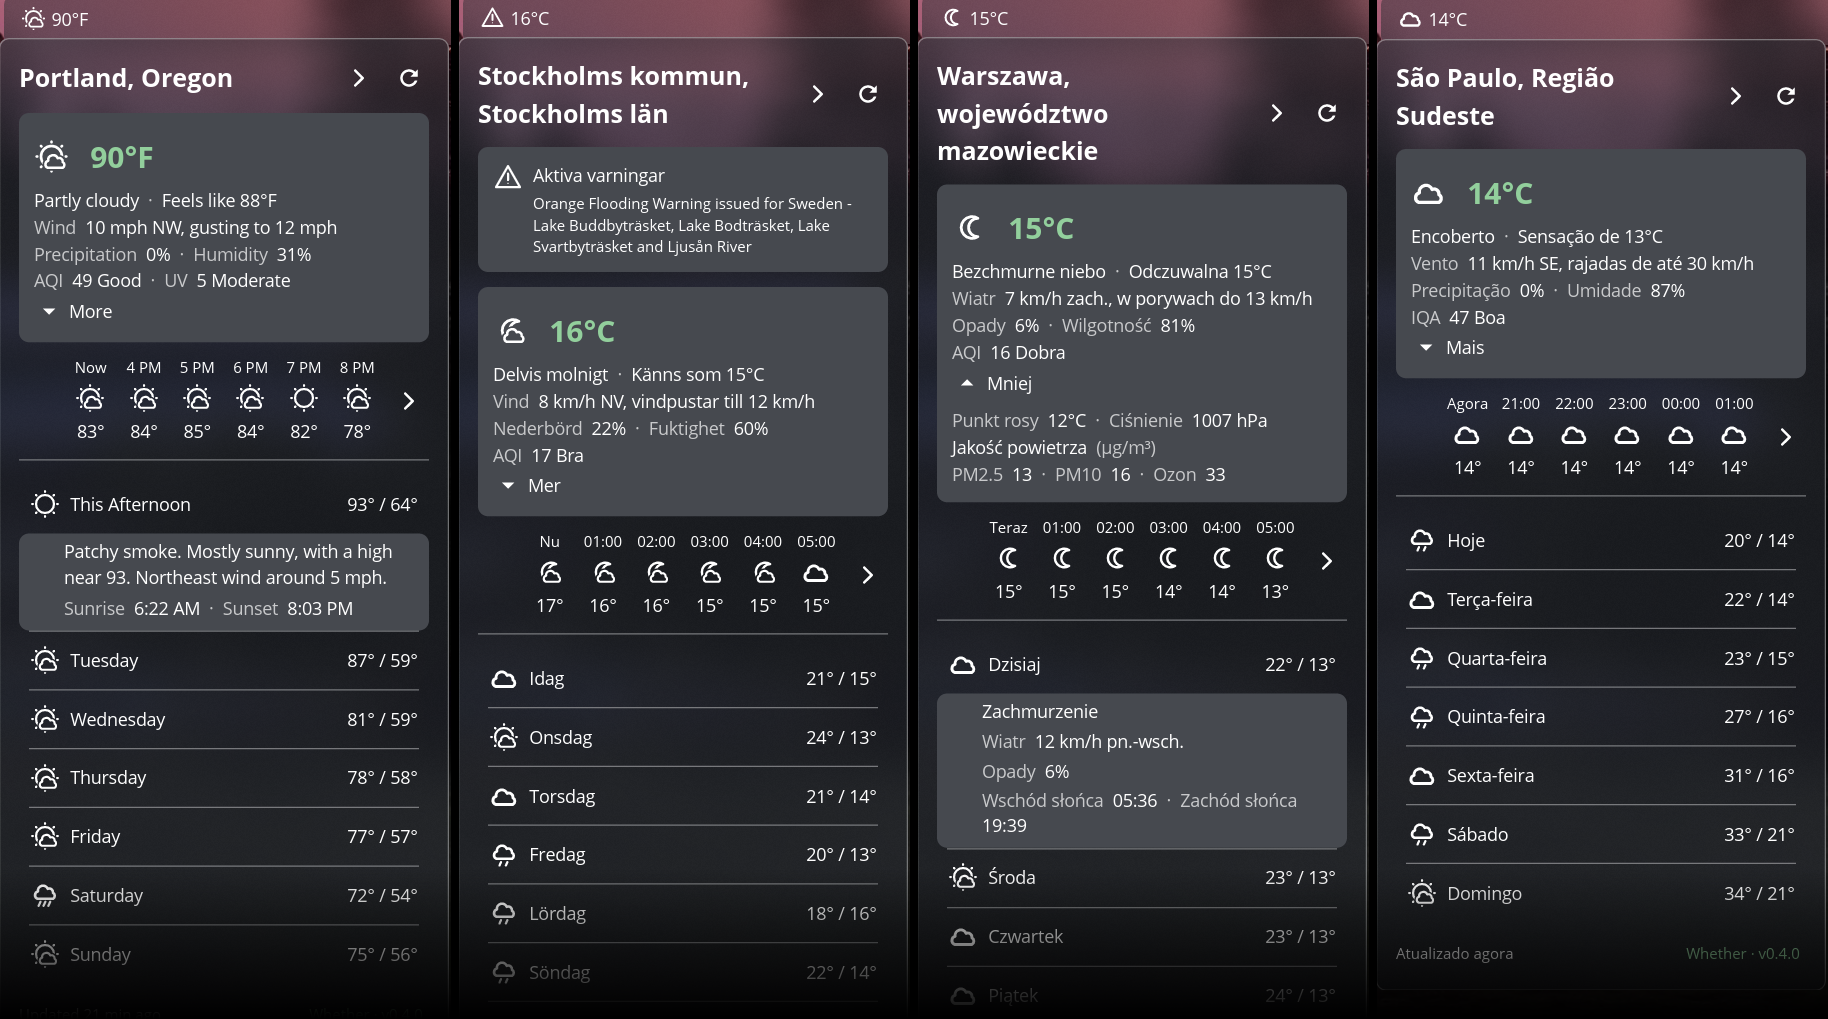
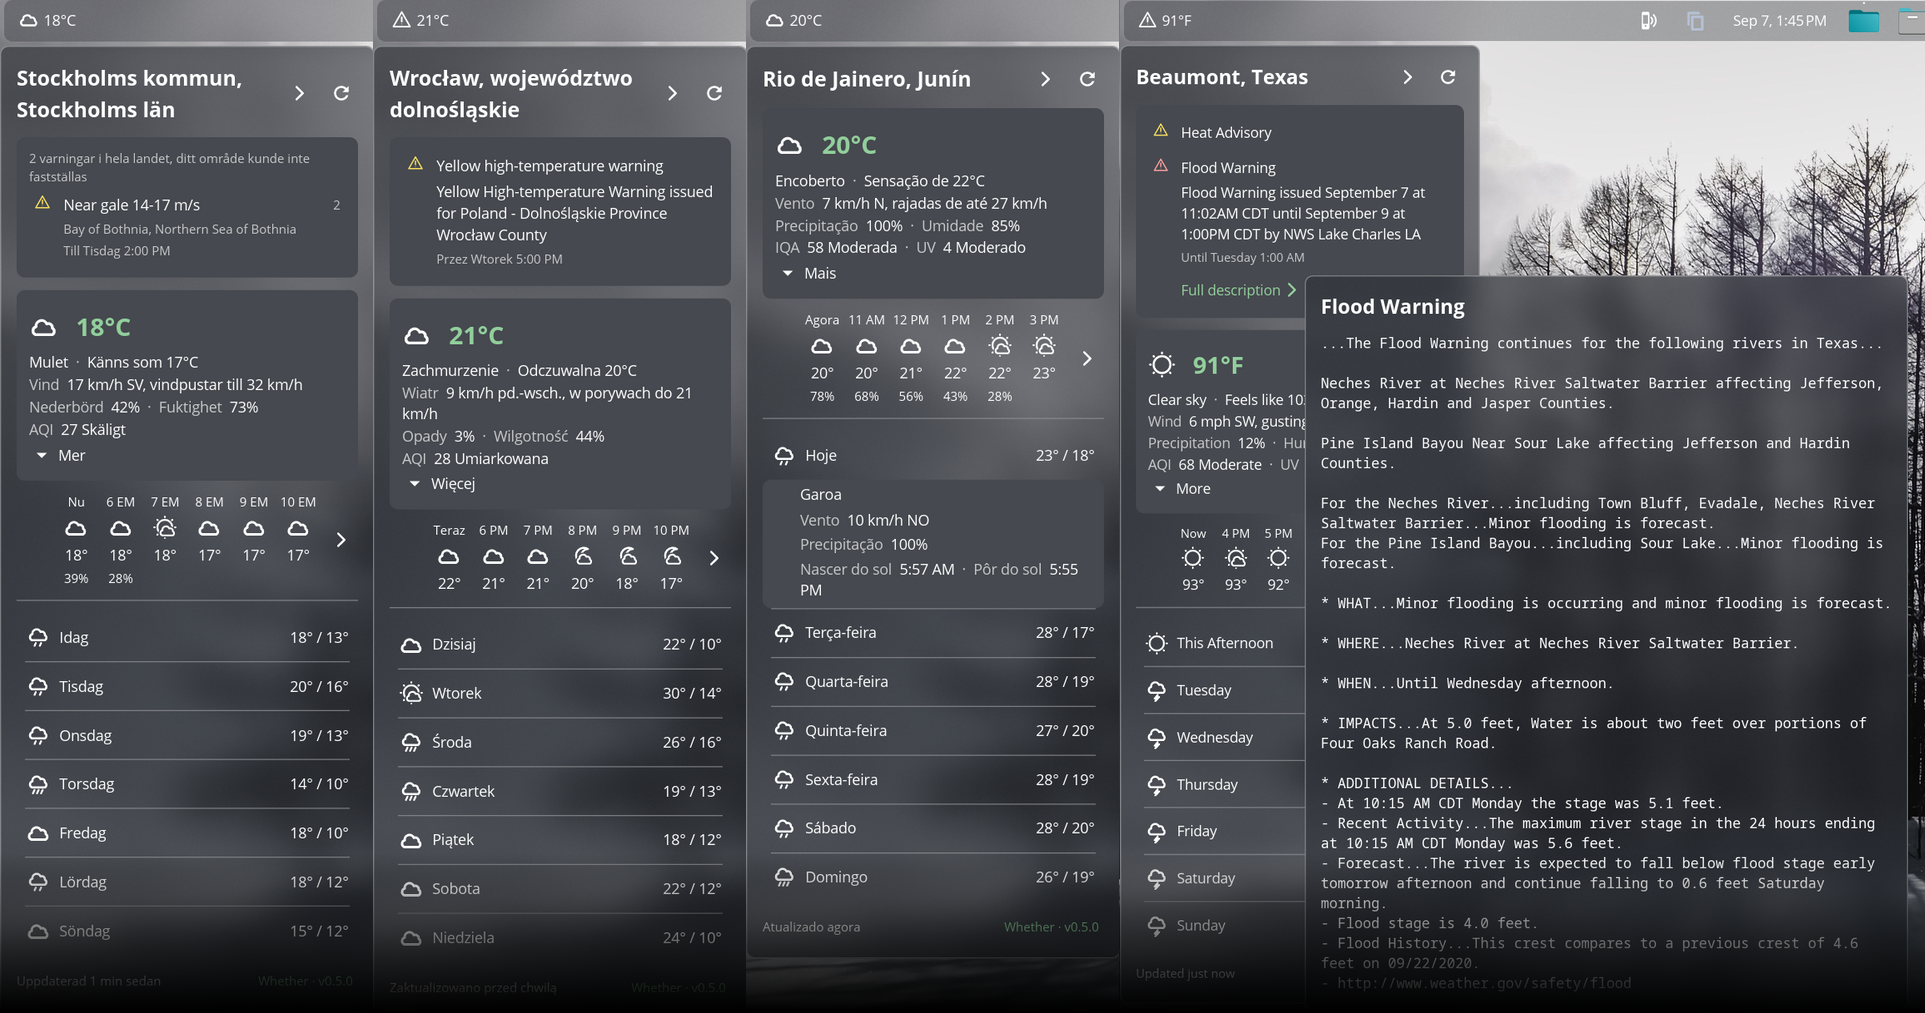
docs: v0.5.0 release notes, README alert features, and refreshed screenshot montages

diff --git a/README.md b/README.md
@@ -2,13 +2,14 @@
 
 A weather applet for the [COSMIC](https://github.com/pop-os/cosmic-epoch) desktop panel.
 
-![Whether in English, Swedish, Polish, and Brazilian Portuguese](screenshots/whether-languages.png)
+![Whether in Swedish, Polish, Brazilian Portuguese, and English](screenshots/whether-languages.png)
 
 ## Features
 
 - **Current conditions** - temperature, feels-like, humidity, wind & gusts, precipitation, AQI, and UV index
   - Click **More** for dew point, pressure, and the pollutant breakdown (PM2.5, PM10, ozone)
-- **Weather alerts** for the US, Europe, Canada, and Australia, shown inline when active
+- **Weather alerts** for the US, Europe, Canada, and Australia, shown inline with a severity icon and tint, expandable to the headline, affected areas, and local expiry time
+  - Detailed alert text (available in the US and Canada) opens in a side panel instead of filling the popup
 - **Hourly and 7-day forecasts** - click any day to expand its detailed forecast, wind, precipitation, and sunrise/sunset
 - **Automatic data sourcing by location** via [weathervane](https://github.com/crenshawdev/weathervane):
   - **Open-Meteo** - the worldwide base forecast, free ([CC BY 4.0](https://open-meteo.com/en/license))
@@ -30,7 +31,7 @@ To add a language, copy `i18n/en/cosmic_ext_whether.ftl` into a new locale direc
 
 Some of what you see comes from the weather service rather than from Whether, and appears in whatever language that agency publishes:
 
-- **Weather alert headlines** are written by the issuing agency (NWS, MeteoAlarm, ECCC, BOM) and keep its wording.
+- **Weather alert text** (event names, headlines, area names, and detailed reports) is written by the issuing agency (NWS, MeteoAlarm, ECCC, BOM) and keeps its wording.
 - **US daily forecast detail** ("Sunny, with a high near 82. North northwest wind 2 to 9 mph.") is authored by the National Weather Service and is English only.
 - **Condition descriptions** fall back to the provider's own wording when a report doesn't map to a known condition.
 
